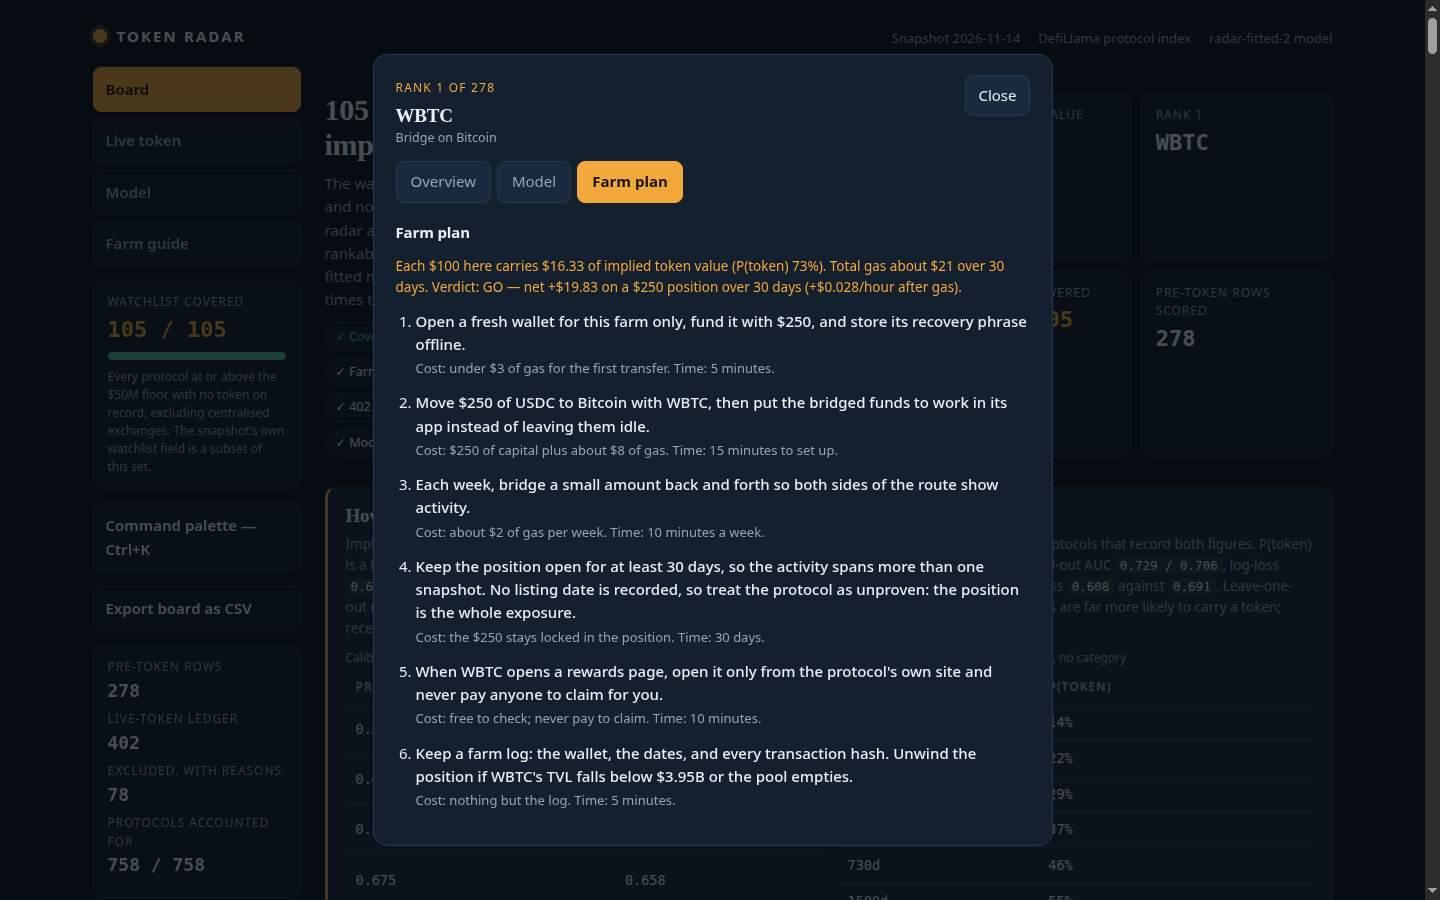
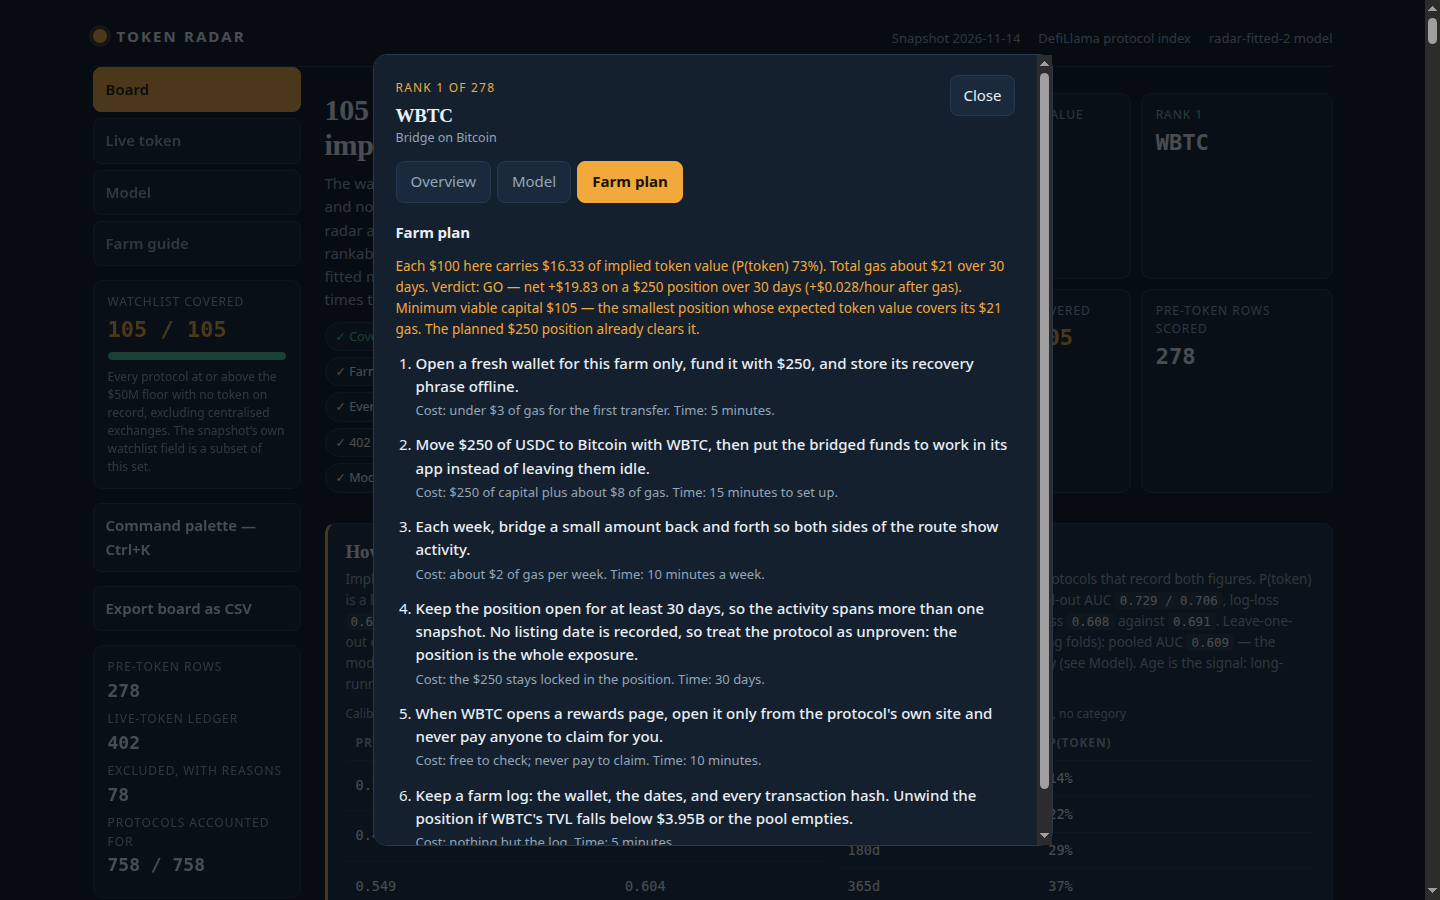
v5: minimum viable capital per farm + walk-forward evidence
- Every farm states its minimum viable capital: the smallest position
  whose expected token value covers its gas (gas / (0.2227 x P(token))),
  rounded up to the next $5. Board gains a Min viable column, the
  compare view a matching row, the detail Farm tab a sizing sentence.
  Median $215 on this snapshot; 97 rows at or below $150, 226 at or
  below $500; only the 5 GO rows already clear it. The planned position
  is NOT raised to it: at exactly break-even the expected profit is
  ~zero, so the plan states the size that would break even and lets the
  costed verdict judge the planned position as sized. Verdicts unchanged
  (5 GO / 51 MARGINAL / 222 SKIP).
- Walk-forward by listing date, tested three ways and reported honestly:
  single median split AUC 0.533; expanding window over three
  listing-date quartiles pooled AUC 0.609, per-fold 0.609 / 0.501 /
  0.617, log-loss 0.833 / 1.033 / 0.904 vs intercept-only 0.859 /
  0.816 / 0.755 - the model ranks forward in 2 of 3 folds but its
  log-loss loses to intercept-only out of time (token rate falls 0.789
  to 0.319 across listing quartiles; the snapshot records no
  token-launch date), so the calendar still does not validate the odds
  fit. The comps ratio walks forward: median ratio from earlier
  listings predicts the next quartile's market caps at log-RMSE 2.253 /
  2.030 / 2.693 vs the full-sample ratio's 2.229 / 2.060 / 2.655.
- Model unchanged: radar-fitted-2, 105/105 coverage, 278 rows, LOO
[…]

diff --git a/dashboard/app.js b/dashboard/app.js
@@ -164,7 +164,7 @@
     return '<section class="hero"><div>' +
       '<h1>' + DATA.watchlist_size + ' watchlist protocols, ranked by fitted implied value</h1>' +
       '<p>The watchlist is the floor: every protocol with at least <b>$' + Math.round(DATA.floor_usd / 1e6) + 'M of TVL</b> and no token on record, excluding centralised exchanges. The early radar adds <b>' + DATA.early_size + ' pre-token protocols</b> below that floor — every rankable pre-token protocol in the snapshot. Implied value is a fitted model, not a promise: TVL times the peers&#8217; market-cap ratio times the fitted odds the protocol ever carries a token.</p>' +
-      '<p class="checks"><span>&#10003; Coverage ' + DATA.watchlist_size + ' / ' + DATA.watchlist_size + '</span><span>&#10003; ' + DATA.board_size + ' rows, sorted by implied value</span><span>&#10003; Farm plan on every row</span><span>&#10003; Costed farm verdict on every row</span><span>&#10003; ' + DATA.live_size + ' live-token protocols accounted</span><span>&#10003; ' + DATA.excluded_size + ' excluded, reasons stated</span><span>&#10003; Model recomputes every row</span></p>' +
+      '<p class="checks"><span>&#10003; Coverage ' + DATA.watchlist_size + ' / ' + DATA.watchlist_size + '</span><span>&#10003; ' + DATA.board_size + ' rows, sorted by implied value</span><span>&#10003; Farm plan on every row</span><span>&#10003; Costed farm verdict on every row</span><span>&#10003; Every farm states its minimum viable capital</span><span>&#10003; ' + DATA.live_size + ' live-token protocols accounted</span><span>&#10003; ' + DATA.excluded_size + ' excluded, reasons stated</span><span>&#10003; Model recomputes every row</span></p>' +
       '</div><div class="kpis">' +
       '<div class="kpi"><span>Top implied value</span><b class="gold">' + fmtUsd(top.implied_value_usd) + '</b></div>' +
       '<div class="kpi"><span>Rank 1</span><b>' + esc(top.name) + '</b></div>' +
@@ -181,7 +181,7 @@
       return '<tr><td class="num">' + a[0] + 'd</td><td class="num">' + Math.round(a[1] * 100) + '%</td></tr>';
     }).join('');
     return '<section class="strip"><h2>How this board was fitted — and what was dropped</h2>' +
-      '<p>Implied value = <code>TVL &#215; ' + f.comps_ratio.toFixed(4) + ' &#215; P(token)</code>. The ratio is the median market-cap-to-TVL of the ' + f.comps_live_n + ' live-token protocols that record both figures. P(token) is a logistic fit on all 758 protocols (416 with a token on record, 342 without) over growth, age and category: held-out AUC <code>' + f.odds_auc[0] + ' / ' + f.odds_auc[1] + '</code>, log-loss <code>' + f.odds_logloss[0] + ' / ' + f.odds_logloss[1] + '</code> against an intercept-only <code>' + f.odds_base_logloss[0] + ' / ' + f.odds_base_logloss[1] + '</code>. Five-fold cross-validation: mean AUC <code>' + f.five_fold_auc + '</code>, log-loss <code>' + f.five_fold_logloss + '</code> against <code>' + f.five_fold_base_logloss + '</code>.' + (f.loo_auc ? ' Leave-one-out over all 758 protocols: AUC <code>' + f.loo_auc + '</code>, log-loss <code>' + f.loo_logloss + '</code> against <code>' + f.loo_base_logloss + '</code>.' : '') + ' Age is the signal: long-running protocols are far more likely to carry a token; recent fast growth points the other way.</p>' +
+      '<p>Implied value = <code>TVL &#215; ' + f.comps_ratio.toFixed(4) + ' &#215; P(token)</code>. The ratio is the median market-cap-to-TVL of the ' + f.comps_live_n + ' live-token protocols that record both figures. P(token) is a logistic fit on all 758 protocols (416 with a token on record, 342 without) over growth, age and category: held-out AUC <code>' + f.odds_auc[0] + ' / ' + f.odds_auc[1] + '</code>, log-loss <code>' + f.odds_logloss[0] + ' / ' + f.odds_logloss[1] + '</code> against an intercept-only <code>' + f.odds_base_logloss[0] + ' / ' + f.odds_base_logloss[1] + '</code>. Five-fold cross-validation: mean AUC <code>' + f.five_fold_auc + '</code>, log-loss <code>' + f.five_fold_logloss + '</code> against <code>' + f.five_fold_base_logloss + '</code>.' + (f.loo_auc ? ' Leave-one-out over all 758 protocols: AUC <code>' + f.loo_auc + '</code>, log-loss <code>' + f.loo_logloss + '</code> against <code>' + f.loo_base_logloss + '</code>.' : '') + (f.walk_forward_auc_pooled ? ' Walk-forward by listing date (3 expanding folds): pooled AUC <code>' + f.walk_forward_auc_pooled + '</code> — the model ranks forward, but its log-loss loses to intercept-only in 2 of 3 folds; the comps ratio walks forward cleanly (see Model).' : '') + ' Age is the signal: long-running protocols are far more likely to carry a token; recent fast growth points the other way.</p>' +
       '<div class="strip-tables"><table class="mini"><caption>Calibration: mean predicted P(token) vs the actual token rate, five bins</caption><thead><tr><th scope="col">Predicted</th><th scope="col">Actual</th></tr></thead><tbody>' + cal + '</tbody></table>' +
       '<table class="mini"><caption>P(token) by age, growth at the median, no category</caption><thead><tr><th scope="col">Age</th><th scope="col">P(token)</th></tr></thead><tbody>' + age + '</tbody></table></div>' +
       '<p class="dropped">Dropped after losing on both held-out halves: ' + f.dropped.map(esc).join('; ') + '.</p>' +
@@ -248,11 +248,12 @@
         '<td class="num">' + fmtOdds(r.token_odds) + '</td>' +
         '<td><div class="bar" aria-hidden="true"><i style="width:' + pct + '%"></i></div><span class="num">' + fmtUsd(r.implied_value_usd) + '</span></td>' +
         '<td><span class="verdict ' + verdictOf(r).toLowerCase() + '">' + esc(verdictOf(r)) + '</span></td>' +
+        '<td class="num">' + fmtUsd(r.min_viable_capital) + '</td>' +
         '</tr>';
     }).join('');
     return '<div class="panel"><div class="table-wrap"><table>' +
       '<caption>Pre-token protocols, strongest implied value first. Select a row for its model and farm plan. Pin rows to keep them above the table; tick up to four to compare.</caption>' +
-      '<thead><tr><th scope="col">Pin</th><th scope="col">Compare</th>' + sortTh('implied', 'Rank') + sortTh('name', 'Protocol') + sortTh('tvl', 'TVL') + sortTh('growth', '7d') + sortTh('age', 'Age') + sortTh('odds', 'Token odds') + sortTh('implied', 'Implied value') + '<th scope="col">Farm verdict</th></tr></thead>' +
+      '<thead><tr><th scope="col">Pin</th><th scope="col">Compare</th>' + sortTh('implied', 'Rank') + sortTh('name', 'Protocol') + sortTh('tvl', 'TVL') + sortTh('growth', '7d') + sortTh('age', 'Age') + sortTh('odds', 'Token odds') + sortTh('implied', 'Implied value') + '<th scope="col">Farm verdict</th><th scope="col">Min viable</th></tr></thead>' +
       '<tbody>' + rows + '</tbody></table></div></div>';
   }
   function liveHtml() {
@@ -320,9 +321,9 @@
       '<p>Every row is scored by one function of the snapshot figures. No protocol name is special-cased, and no row is hand-picked.</p>' +
       '<div class="formula">implied = round( tvl_usd &#215; ' + f.comps_ratio.toFixed(4) + ' &#215; P(token | growth, age, category) )</div>' +
       '<p>TVL and seven-day growth come from the snapshot. Age is the time since the protocol was first listed, the best record of how long it has run with no token; an unlisted age scores as its own term. The early radar is every rankable pre-token protocol below the watchlist floor, by TVL, and the live-token protocols are set aside with their market caps shown. This is an estimate, not a price.</p>' +
-      '<h3>The fit, held out three ways</h3>' +
+      '<h3>The fit, held out and walked forward</h3>' +
       '<p>Comps ratio ' + f.comps_ratio.toFixed(4) + ' is the median market-cap-to-TVL of ' + f.comps_live_n + ' live-token protocols recording both figures. The logistic P(token) was fitted on all 758 protocols and scored on held-out halves (split by slug hash, even vs odd, fit on one half and score the other, then swap): AUC ' + f.odds_auc[0] + ' / ' + f.odds_auc[1] + ', log-loss ' + f.odds_logloss[0] + ' / ' + f.odds_logloss[1] + ' against an intercept-only ' + f.odds_base_logloss[0] + ' / ' + f.odds_base_logloss[1] + '. Five-fold cross-validation agrees: mean AUC ' + f.five_fold_auc + ', log-loss ' + f.five_fold_logloss + ' against ' + f.five_fold_base_logloss + '.' + (f.loo_auc ? ' Leave-one-out over all 758 protocols agrees: AUC ' + f.loo_auc + ', log-loss ' + f.loo_logloss + ' against ' + f.loo_base_logloss + '.' : '') + ' Calibration, five bins of mean predicted P(token) against the actual token rate: ' + f.calibration.map(function (b) { return b[0].toFixed(3) + ' &#8594; ' + b[1].toFixed(3); }).join(', ') + '. P(token) by age (growth at the median, no category): ' + f.age_curve.map(function (a) { return a[0] + 'd ' + Math.round(a[1] * 100) + '%'; }).join(', ') + '.</p>' +
-      '<p>Two stronger-looking validations were tested and did not survive, so neither is claimed: a walk-forward split by listing date scores AUC 0.533 with log-loss 1.135 against an intercept-only 0.840 — the target is time-censored, recently listed protocols have not had time to launch, so the calendar does not validate this fit; and conformal intervals on implied value span &#215;0.03–&#215;90 at 90% on held-out data, too wide to price a single row. The held-out splits are the validation.</p>' +
+      '<p>Walk-forward by listing date was tested three ways (the snapshot records no token-launch date, so the split is by listing date with snapshot-date features and labels). The single median split scores AUC 0.533 with log-loss 1.135 against an intercept-only 0.840; an expanding window over three listing-date quartiles gives pooled AUC 0.609 with per-fold AUC 0.609 / 0.501 / 0.617 and log-loss 0.833 / 1.033 / 0.904 against intercept-only 0.859 / 0.816 / 0.755 — the model ranks forward in 2 of 3 folds, but the target is time-censored (the token rate falls 0.789 to 0.319 across listing quartiles, recently listed protocols have not had time to launch), so its log-loss loses to intercept-only out of time and the calendar still does not validate the odds fit. The comps ratio, by contrast, walks forward: the median ratio from earlier listings predicts the next quartile&#8217;s market caps at log-RMSE 2.253 / 2.030 / 2.693, the same as the full-sample ratio&#8217;s 2.229 / 2.060 / 2.655. Conformal intervals on implied value were also tested and did not survive, so they are not claimed: they span &#215;0.03–&#215;90 at 90% on held-out data, too wide to price a single row. The held-out splits are the validation.</p>' +
       '<p class="dropped">Dropped after losing on both held-out halves: ' + f.dropped.map(esc).join('; ') + '.</p></section>' + sandboxHtml();
   }
   function guideViewHtml() {
@@ -428,7 +429,8 @@
       ['Implied value', function (r) { return fmtUsd(r.implied_value_usd); }],
       ['Farm capital', function (r) { return '$' + capitalFor(r); }],
       ['Hold window', function (r) { return holdDaysFor(r) + ' days'; }],
-      ['Farm verdict', function (r) { return verdictOf(r); }]
+      ['Farm verdict', function (r) { return verdictOf(r); }],
+      ['Minimum viable capital', function (r) { return fmtUsd(r.min_viable_capital); }]
     ];
     var head = picked.map(function (r) { return '<th scope="col">' + esc(r.name) + ' <span class="sub">#' + r.rank + '</span></th>'; }).join('');
     var body = metrics.map(function (m) {

diff --git a/lib/model.ts b/lib/model.ts
@@ -125,6 +125,32 @@ export const FIT_EVIDENCE = {
   loo_auc: 0.732,
   loo_logloss: 0.605,
   loo_base_logloss: 0.69,
+  /**
+   * Walk-forward by listing date (3 expanding folds, refit per fold with that fold's own
+   * standardisation): [AUC, log-loss, intercept-only log-loss] per fold, train on protocols listed
+   * before the cut, test on the next quartile. Pooled AUC 0.609. The model ranks forward in 2 of 3
+   * folds, but its log-loss loses to intercept-only in 2 of 3 — the target is time-censored (the
+   * token rate falls 0.789 -> 0.319 across listing quartiles, recently listed protocols have not
+   * had time to launch), so the calendar does not validate the odds fit. The snapshot records no
+   * token-launch date, so the split is by listing date with snapshot-date features and labels.
+   */
+  walk_forward_folds: [
+    [0.609, 0.833, 0.859],
+    [0.501, 1.033, 0.816],
+    [0.617, 0.904, 0.755],
+  ],
+  walk_forward_auc_pooled: 0.609,
+  /**
+   * Walk-forward of the comps ratio: the median mcap/TVL of live-token protocols listed before the
+   * cut, predicting the next quartile's market caps — [log-RMSE with the earlier-cohort ratio,
+   * log-RMSE with the full-sample ratio] per fold. The ratio walks forward: the earlier-cohort
+   * ratio predicts the next cohort as well as the full-sample ratio does.
+   */
+  walk_forward_ratio_rmse: [
+    [2.253, 2.229],
+    [2.03, 2.06],
+    [2.693, 2.655],
+  ],
   /** Calibration on the full fit, five bins: mean predicted P(token) against the actual token rate. */
   calibration: [
     [0.241, 0.285],
@@ -183,6 +209,8 @@ export interface BoardRow {
   farm_steps: string[];
   /** One line of farm economics for the row: implied value per $100 of capital, and total gas. */
   farm_summary: string;
+  /** The smallest position whose expected token value covers its gas: the farm's minimum viable capital. */
+  min_viable_capital: number;
   farm_capital: number;
   farm_hold_days: number;
 }
@@ -206,6 +234,8 @@ export interface RadarRow {
   farm_summary: string;
   /** The row's costed farm verdict: GO, MARGINAL or SKIP, from its own figures. */
   farm_verdict: 'GO' | 'MARGINAL' | 'SKIP';
+  /** The smallest position whose expected token value covers its gas: the farm's minimum viable capital. */
+  min_viable_capital: number;
   farm_capital: number;
   farm_hold_days: number;
 }
@@ -399,6 +429,7 @@ export function buildBoard(snapshot: Snapshot): BoardRow[] {
       },
       farm_steps: farmSteps(s.p, s.age, s.odds).map(stepText),
       farm_summary: farmSummary(s.p, s.odds, capital, hold),
+      min_viable_capital: minViableCapital(s.p, s.odds, hold),
       farm_capital: capital,
       farm_hold_days: hold,
     };
@@ -525,7 +556,8 @@ function riskFor(p: SnapshotProtocol, age: number | null, odds: number, capital:
   return `The position stays small relative to the protocol's TVL, so one bad week cannot take the farm with it.`;
 }
 
-/** One line of farm economics for a row: implied token value per $100 of capital, and total gas. */
+/** One line of farm economics for a row: implied token value per $100 of capital, total gas, the
+ * costed verdict, and the farm's minimum viable capital — whether the planned position meets it. */
 export function farmSummary(p: SnapshotProtocol, odds: number, capital: number, hold: number): string {
   const per100 = 100 * COMPS_RATIO * odds;
   const gas = gasFor(capital, hold);
@@ -533,13 +565,36 @@ export function farmSummary(p: SnapshotProtocol, odds: number, capital: number, 
   const sign = v.net >= 0 ? '+' : '−';
   const hourSign = v.perHour >= 0 ? '+' : '−';
   const perHour = Math.abs(v.perHour) >= 0.1 ? v.perHour.toFixed(2) : v.perHour.toFixed(3);
-  return `Each $100 here carries $${per100.toFixed(2)} of implied token value (P(token) ${Math.round(odds * 100)}%). Total gas about $${gas} over ${hold} days. Verdict: ${v.verdict} — net ${sign}$${Math.abs(v.net).toFixed(2)} on a $${capital} position over ${hold} days (${hourSign}$${Math.abs(Number(perHour)).toFixed(3)}/hour after gas).`;
+  const mvc = minViableCapital(p, odds, hold);
+  const sizing =
+    capital >= mvc
+      ? ` The planned $${capital} position already clears it.`
+      : ` The planned $${capital} position falls $${mvc - capital} short — size up to $${mvc} to break even.`;
+  return `Each $100 here carries $${per100.toFixed(2)} of implied token value (P(token) ${Math.round(odds * 100)}%). Total gas about $${gas} over ${hold} days. Verdict: ${v.verdict} — net ${sign}$${Math.abs(v.net).toFixed(2)} on a $${capital} position over ${hold} days (${hourSign}$${Math.abs(Number(perHour)).toFixed(3)}/hour after gas). Minimum viable capital $${mvc} — the smallest position whose expected token value covers its $${gas} gas.${sizing}`;
 }
 
 /** The gas one farm position costs: $3 to set up, $4–$8 for the first transfer by capital, $2 a week. */
 export function gasFor(capital: number, hold: number): number {
   const weeks = Math.ceil(hold / 7);
   return 3 + (capital >= 150 ? 8 : 4) + 2 * weeks;
+}
+
+/**
+ * A farm's minimum viable capital: the smallest position whose expected token value covers its gas.
+ * Expected token value per $1 of capital is the comps ratio times the row's own P(token), so the
+ * break-even size is gas divided by that rate — solved on the same two gas branches gasFor uses
+ * ($4 transfer below $150 of capital, $8 at or above), then rounded up to the next $5 so the rounded
+ * size still clears its gas. The planned position is NOT raised to it: at exactly break-even the
+ * expected profit is ~zero, so the plan states the size that would break even and lets the verdict
+ * judge the planned position as sized. On this snapshot the median is $215 (97 rows at or below
+ * $150, 226 at or below $500); only the 5 GO rows already clear it at their planned capital.
+ */
+export function minViableCapital(p: SnapshotProtocol, odds: number, hold: number): number {
+  const rate = COMPS_RATIO * odds;
+  const weeks = Math.ceil(hold / 7);
+  let c = (7 + 2 * weeks) / rate;
+  if (c >= 150) c = (11 + 2 * weeks) / rate;
+  return Math.ceil(c / 5) * 5;
 }
 
 /**
@@ -678,6 +733,7 @@ export function radarRow(row: BoardRow): RadarRow {
     implied_value_usd: row.implied_value_usd,
     farm_steps: row.farm_steps,
     farm_summary: row.farm_summary,
+    min_viable_capital: row.min_viable_capital,
     farm_verdict: farmVerdict(
       { slug: row.slug, name: row.name, category: row.category, chains: row.chains, tvl_usd: row.tvl_usd, change_7d: row.change_7d, mcap_usd: row.mcap_usd, listed_at: row.listed_at, gecko_id: row.gecko_id, symbol: row.symbol },
       row.token_odds,

diff --git a/README.md b/README.md
@@ -16,19 +16,34 @@ over growth, age and category, held out twice (AUC 0.729 / 0.706, log-loss
 0.602 / 0.636 against an intercept-only 0.690 / 0.687), five-fold
 cross-validated (mean AUC 0.739, log-loss 0.608 against 0.691) and
 leave-one-out validated over all 758 protocols (AUC 0.732, log-loss 0.605
-against 0.690). Category
+against 0.690). Walk-forward by listing date was tested three ways: the single
+median split scores AUC 0.533, and an expanding window over three
+listing-date quartiles gives pooled AUC 0.609 — the model ranks forward in 2
+of 3 folds, but its log-loss loses to intercept-only in 2 of 3, so the
+calendar still does not validate the odds fit (the snapshot records no
+token-launch date; the token rate falls 0.789 to 0.319 across listing
+quartiles as recently listed protocols have not had time to launch). The
+comps ratio, by contrast, walks forward: the median ratio from earlier
+listings predicts the next quartile's market caps at log-RMSE 2.253 / 2.030 /
+2.693, the same as the full-sample ratio's 2.229 / 2.060 / 2.655. Category
 medians, a log-linear mcap regression and growth terciles were all fitted and
-dropped after losing on both held-out halves; a walk-forward split and conformal
-intervals were tested and also failed, and the dashboard says so in its
-integrity strip instead of claiming them. Every row carries a six-step farm
-plan with a cost and a duration, built from that protocol's own record: the
-family decides the position and the weekly cadence, the figures decide the
-capital, the hold, a risk note and an exit trigger at half the protocol's own
-TVL — so a lending farm is not a bridge farm. Every row also carries a costed
-farm verdict — GO, MARGINAL or SKIP — from the expected token value of its own
-position against the gas the farm costs, netted per hour (5 GO / 51 MARGINAL /
-222 SKIP on this snapshot: most rows do not clear gas, and the verdict says
-so). The 402 live-token protocols are
+dropped after losing on both held-out halves; conformal intervals were tested
+and also failed, and the dashboard says so in its integrity strip instead of
+claiming them. Every row carries a six-step farm plan with a cost and a
+duration, built from that protocol's own record: the family decides the
+position and the weekly cadence, the figures decide the capital, the hold, a
+risk note and an exit trigger at half the protocol's own TVL — so a lending
+farm is not a bridge farm. Every row also carries a costed farm verdict — GO,
+MARGINAL or SKIP — from the expected token value of its own position against
+the gas the farm costs, netted per hour (5 GO / 51 MARGINAL / 222 SKIP on
+this snapshot: most rows do not clear gas, and the verdict says so) — and a
+minimum viable capital: the smallest position whose expected token value
+covers its gas (median $215 on this snapshot; 97 rows at or below $150, 226
+at or below $500), with whether the planned position already clears it or
+how far short it falls. The planned position is not raised to it: at exactly
+break-even the expected profit is ~zero, so the plan states the size that
+would break even and lets the verdict judge the planned position as sized.
+The 402 live-token protocols are
 set aside in their own ledger with their market caps shown, never mixed into
 the ranking, and the 78 protocols the board does not rank are listed with the
 reason each one is excluded: 278 ranked + 402 live + 78 excluded = 758.
